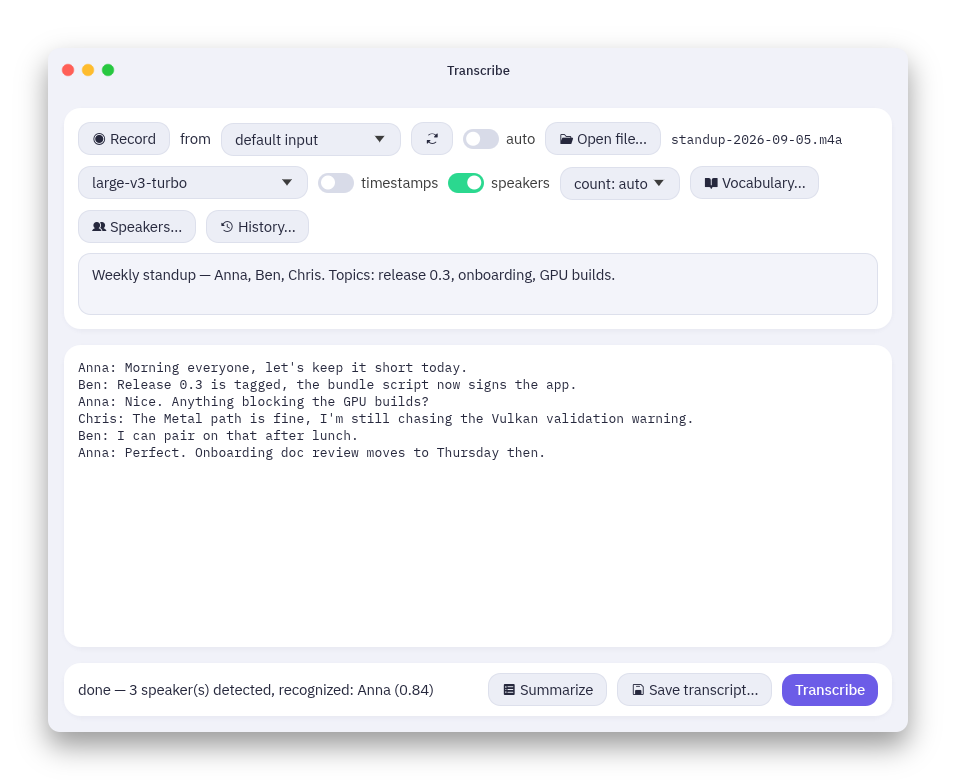
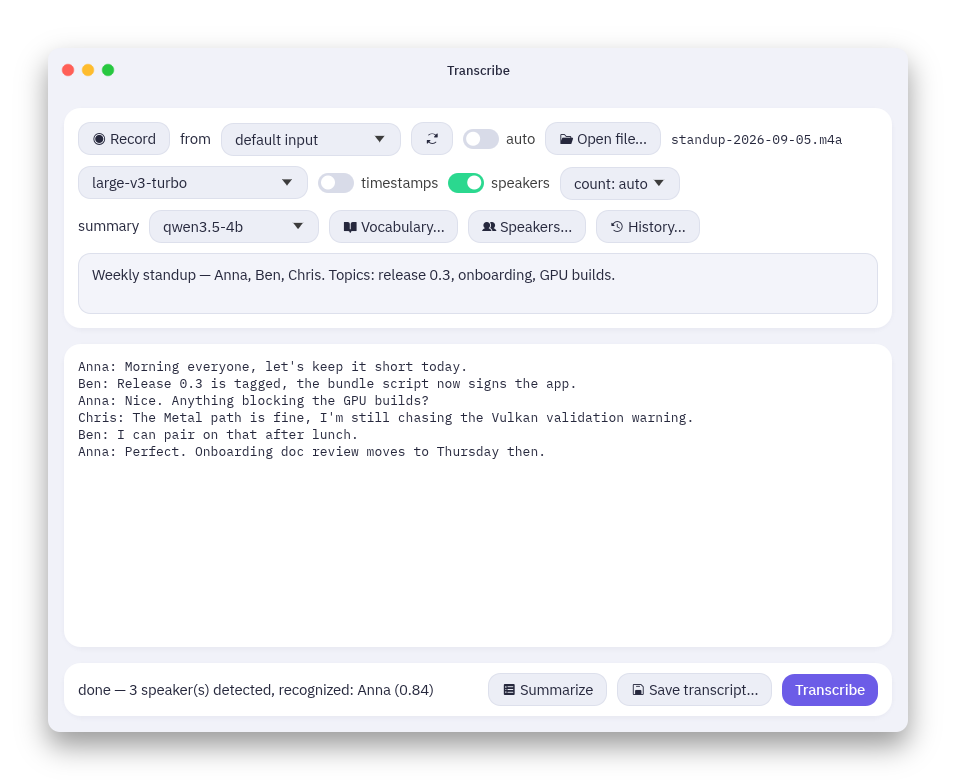
Move the summary model picker where it can be reached
v0.9.0 put it in the Summary window, which is wrong: show_summary is
only set in start_summarization, so that window does not open until a
summary is already running. The picker inside it could not be reached
until after the first summary had downloaded and run with whatever the
default was — exactly the choice it was meant to offer.

Put it in the toolbar instead, beside the speech model picker. Give it
a row of its own rather than wrapping it in with the transcription
controls: the summary model and the panels are about the app rather
than about this one recording, and sharing the row left "count: auto"
clipped at the window width the snapshot tests use.

Picking a model still does not download it — that waits for Summarize,
since 15.8 GB should not start on a stray dropdown click. The row shows
each size and whether it is already on disk.

Claude-Session: https://claude.ai/code/session_01KbnH6y7FtQZPEkFUAqyfb4

diff --git a/src/bin/transcribe-gui.rs b/src/bin/transcribe-gui.rs
@@ -696,6 +696,50 @@ impl App {
         }
     }
 
+    /// The summary-model dropdown. It belongs beside the speech-model one
+    /// rather than in the Summary window: that window only opens once a
+    /// summary is already running, so a picker inside it could not be
+    /// reached until after the first summary had downloaded and run with
+    /// whatever the default was.
+    fn summary_model_picker(&mut self, ui: &mut egui::Ui, enabled: bool) {
+        ui.add_enabled_ui(enabled, |ui| {
+            let mut picked = false;
+            ui.label("summary");
+            egui::ComboBox::from_id_salt("summary-model")
+                .selected_text(&self.summary_model)
+                .width(170.0)
+                .show_ui(ui, |ui| {
+                    ui.spacing_mut().item_spacing.y = 2.0;
+                    for m in SUMMARY_MODELS {
+                        let installed = self
+                            .models_dir
+                            .as_ref()
+                            .is_some_and(|dir| dir.join(m.file).exists());
+                        let icon = if installed { CHECK } else { DOWNLOAD_SIMPLE };
+                        let label =
+                            format!("{icon} {}  ({} · {})", m.name, m.size_label(), m.note);
+                        if ui
+                            .selectable_label(self.summary_model == m.name, label)
+                            .clicked()
+                        {
+                            self.summary_model = m.name.to_owned();
+                            picked = true;
+                        }
+                    }
+                })
+                .response
+                .on_hover_text(
+                    "which model writes the summary and the titles auto mode files \
+                     meetings under — the bigger ones keep the numbers and tradeoffs \
+                     a decision turned on, and 35b-a3b is faster than 9b despite its \
+                     size, because only ~3B of it runs per token",
+                );
+            if picked {
+                self.remember_summary_model();
+            }
+        });
+    }
+
     /// Keep the chosen summary model for the next run, like
     /// [`Self::remember_model`].
     fn remember_summary_model(&mut self) {
@@ -1666,9 +1710,10 @@ impl eframe::App for App {
                  they only apply to Whisper models",
                 self.model
             );
+            // Shared by both control rows below.
+            let model_enabled =
+                self.models_dir.is_some() && running.is_none() && self.download.is_none();
             ui.horizontal_wrapped(|ui| {
-                let model_enabled =
-                    self.models_dir.is_some() && running.is_none() && self.download.is_none();
                 let mut picked = false;
                 ui.add_enabled_ui(model_enabled, |ui| {
                     egui::ComboBox::from_id_salt("model")
@@ -1717,6 +1762,13 @@ impl eframe::App for App {
                              phantom extra speakers",
                         );
                 }
+            });
+            // A row of its own: the summary picker and the panels are
+            // about the app rather than about this one recording, and
+            // wrapping them in with the transcription controls left the
+            // speaker count clipped at narrow widths.
+            ui.horizontal_wrapped(|ui| {
+                self.summary_model_picker(ui, model_enabled);
                 if ui
                     .add_enabled(prompt_supported, egui::Button::new(format!("{BOOK_OPEN} Vocabulary…")))
                     .on_hover_text("terms Whisper should spell correctly — product names, people, acronyms")
@@ -2090,40 +2142,6 @@ impl eframe::App for App {
                     {
                         ui.ctx().copy_text(self.summary.clone());
                     }
-                    // Which model writes the minutes matters more than any
-                    // other setting here, so the picker sits next to them.
-                    ui.add_enabled_ui(!summarizing && self.download.is_none(), |ui| {
-                        let mut picked = false;
-                        egui::ComboBox::from_id_salt("summary-model")
-                            .selected_text(&self.summary_model)
-                            .show_ui(ui, |ui| {
-                                for m in SUMMARY_MODELS {
-                                    let installed = self
-                                        .models_dir
-                                        .as_ref()
-                                        .is_some_and(|dir| dir.join(m.file).exists());
-                                    let icon = if installed { CHECK } else { DOWNLOAD_SIMPLE };
-                                    let label =
-                                        format!("{icon} {}  ({} · {})", m.name, m.size_label(), m.note);
-                                    if ui
-                                        .selectable_label(self.summary_model == m.name, label)
-                                        .clicked()
-                                    {
-                                        self.summary_model = m.name.to_owned();
-                                        picked = true;
-                                    }
-                                }
-                            })
-                            .response
-                            .on_hover_text(
-                                "the bigger models keep the numbers and tradeoffs a \
-                                 decision turned on; 35b-a3b generates faster than 9b \
-                                 despite its size, because only ~3B of it runs per token",
-                            );
-                        if picked {
-                            self.remember_summary_model();
-                        }
-                    });
                 });
                 ui.add_space(4.0);
                 egui::ScrollArea::vertical()
@@ -2735,6 +2753,8 @@ mod tests {
         harness.run();
         harness.snapshot("transcribe-gui-model-picker");
     }
+
+
 
     /// The model dropdown picks up where the last run left off — but a
     /// remembered name that no longer exists must not strand the app on a

diff --git a/README.md b/README.md
@@ -55,15 +55,15 @@ app ever closes on its own, that file says why.
   voice in one step (see below).
 - **Summarize** writes the minutes — overview, discussion, decisions, open
   questions, action items — with a local language model, using the context
-  notes and vocabulary too (downloaded on first use). The picker in the
-  Summary window offers four sizes of Qwen3.5, so the app stays usable on
-  an old laptop and gets good on a big machine: **2b** (1.2 GB, the floor —
-  gets the shape right, misattributes some action items), **4b** (2.6 GB,
-  the default), **9b** (5.4 GB), and **35b-a3b** (15.8 GB, the best by a
-  wide margin). The last is a mixture of experts — 35B parameters but only
-  ~3B of them run per token — so on a CPU it generates *faster* than the
-  dense 9b while keeping the numbers and tradeoffs a decision turned on.
-  Give it ~18 GB of RAM.
+  notes and vocabulary too (downloaded on first use). The **summary** picker
+  in the toolbar offers four sizes of Qwen3.5, so the app stays usable on an
+  old laptop and gets good on a big machine: **2b** (1.2 GB, the floor — it
+  gets the shape of a meeting right but misattributes some action items),
+  **4b** (2.6 GB, the default), **9b** (5.4 GB), and **35b-a3b** (15.8 GB,
+  the best by a wide margin). The last is a mixture of experts — 35B
+  parameters but only ~3B of them run per token — so on a CPU it generates
+  *faster* than the dense 9b while keeping the numbers and tradeoffs a
+  decision turned on. Give it ~18 GB of RAM.
 - The transcript is editable in place; **Save transcript…** writes it via a
   file dialog.
 
